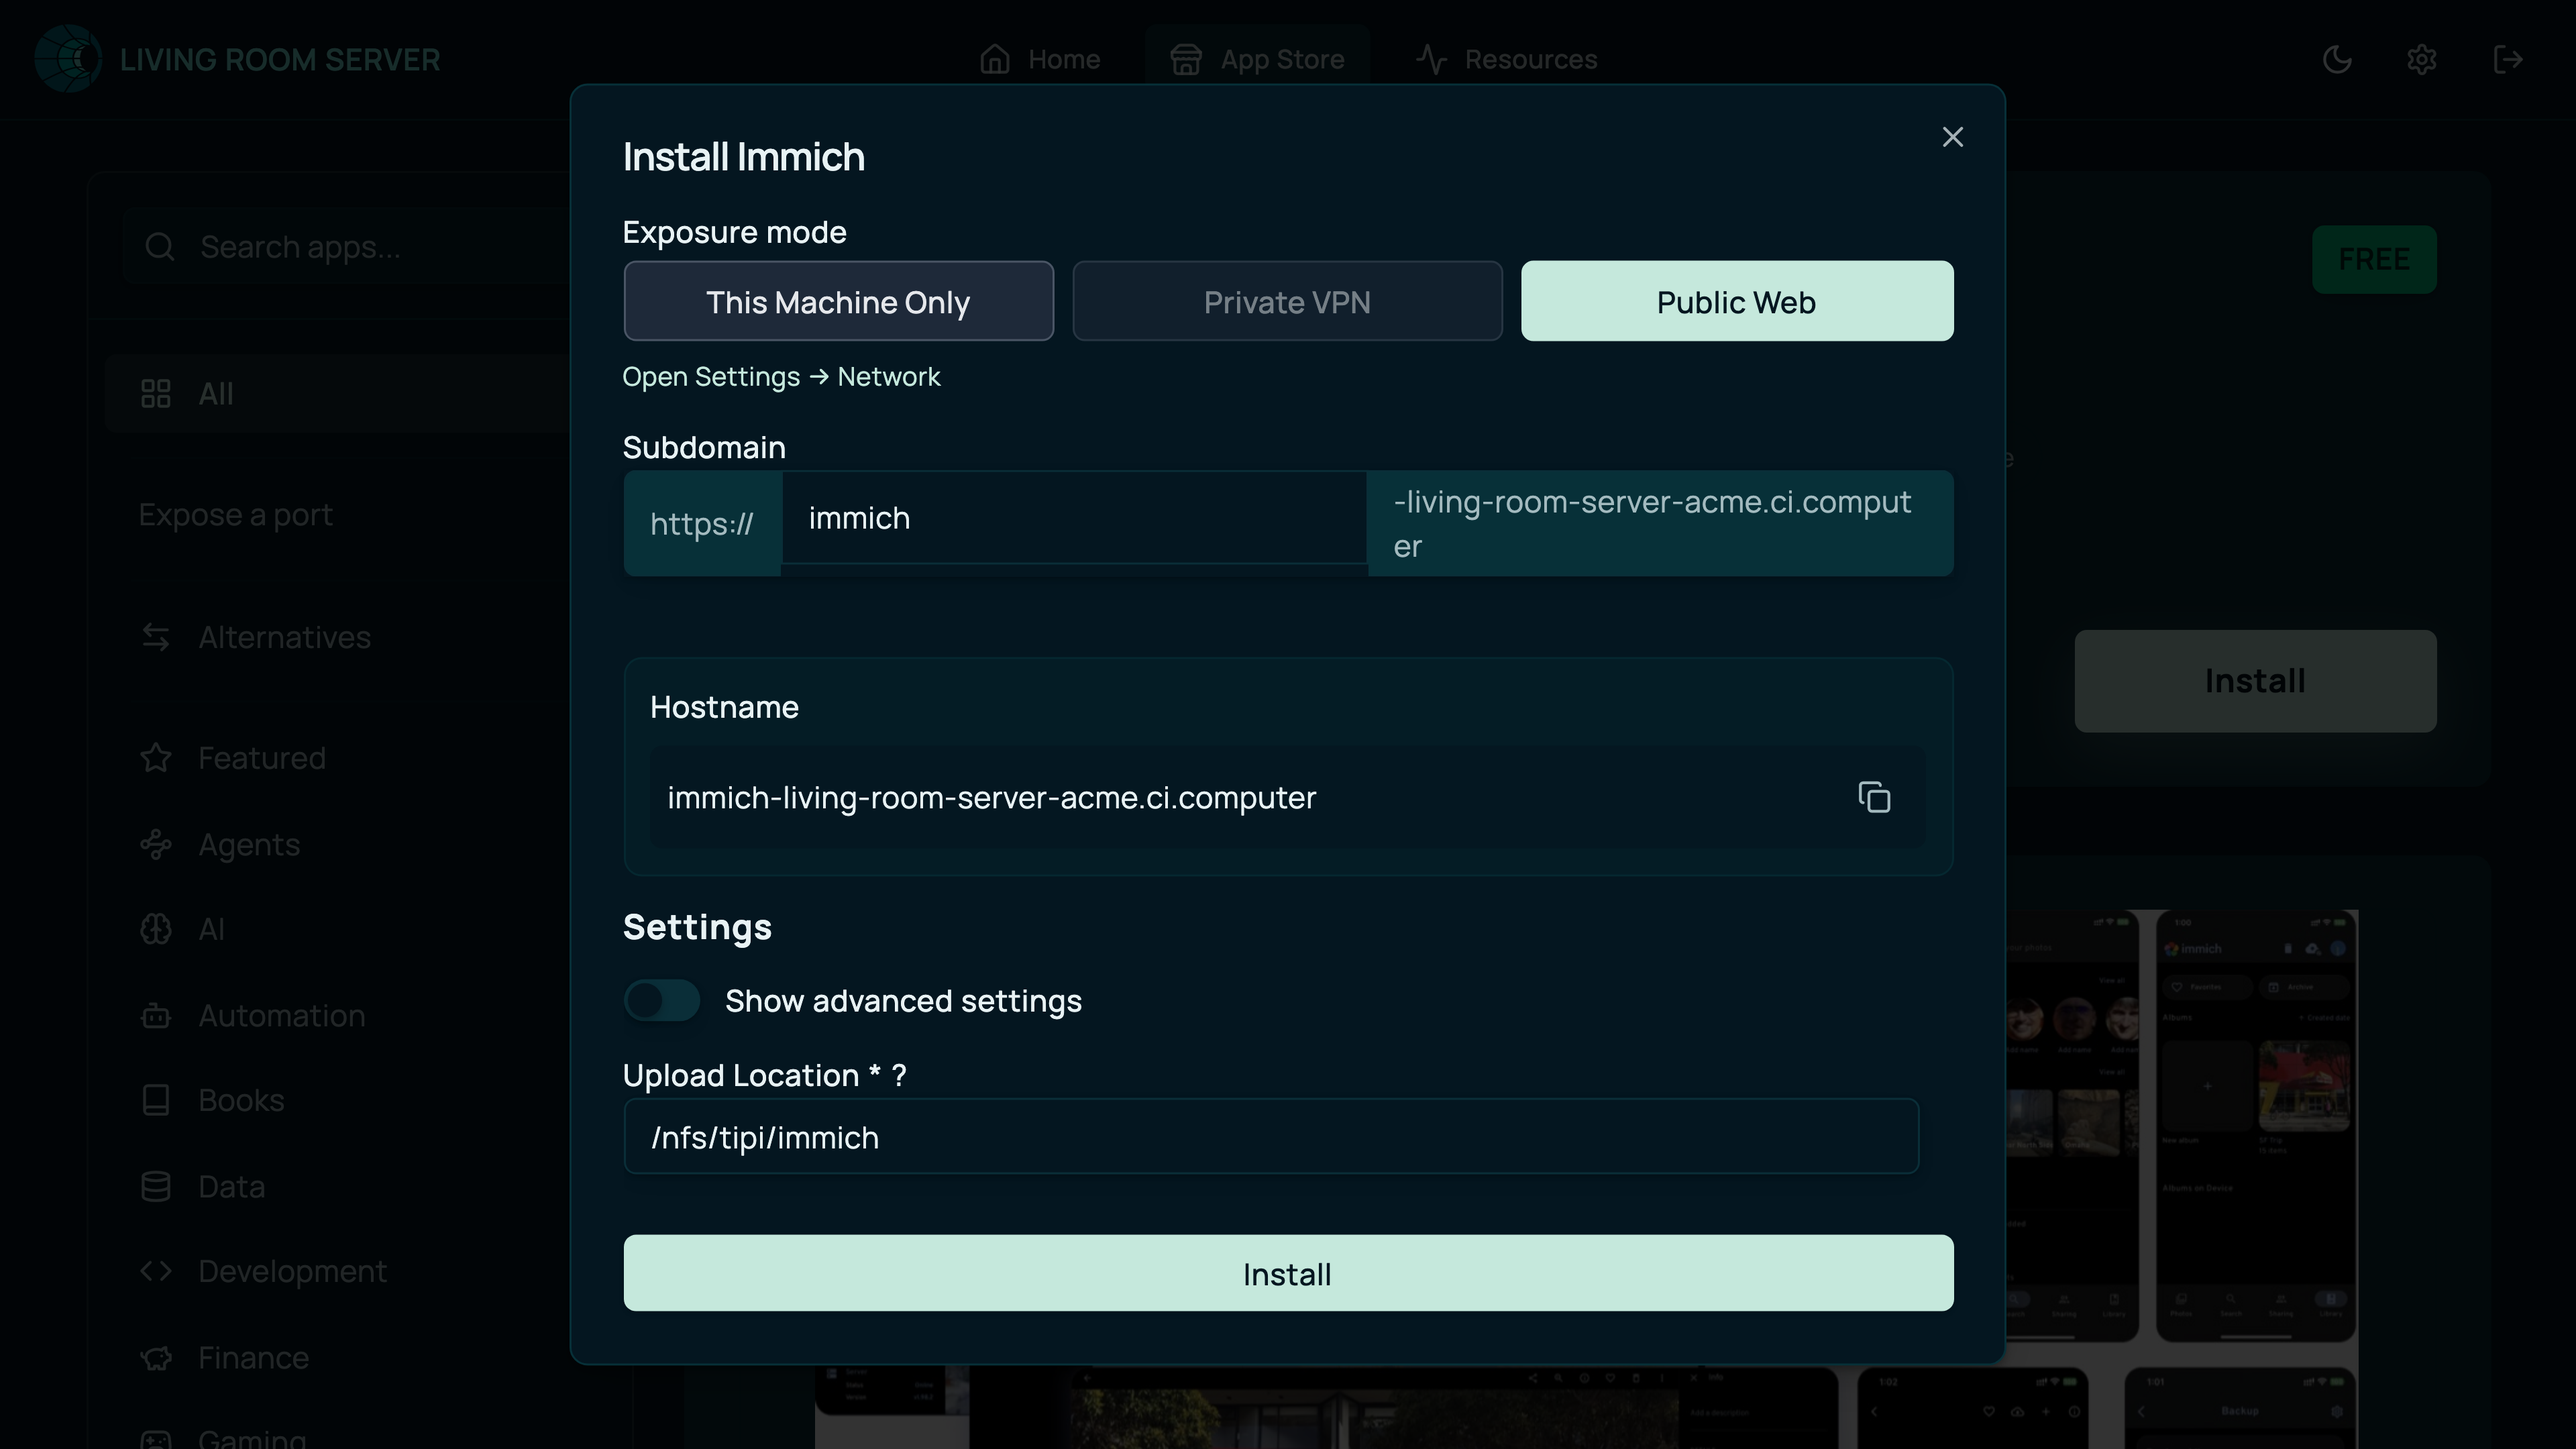
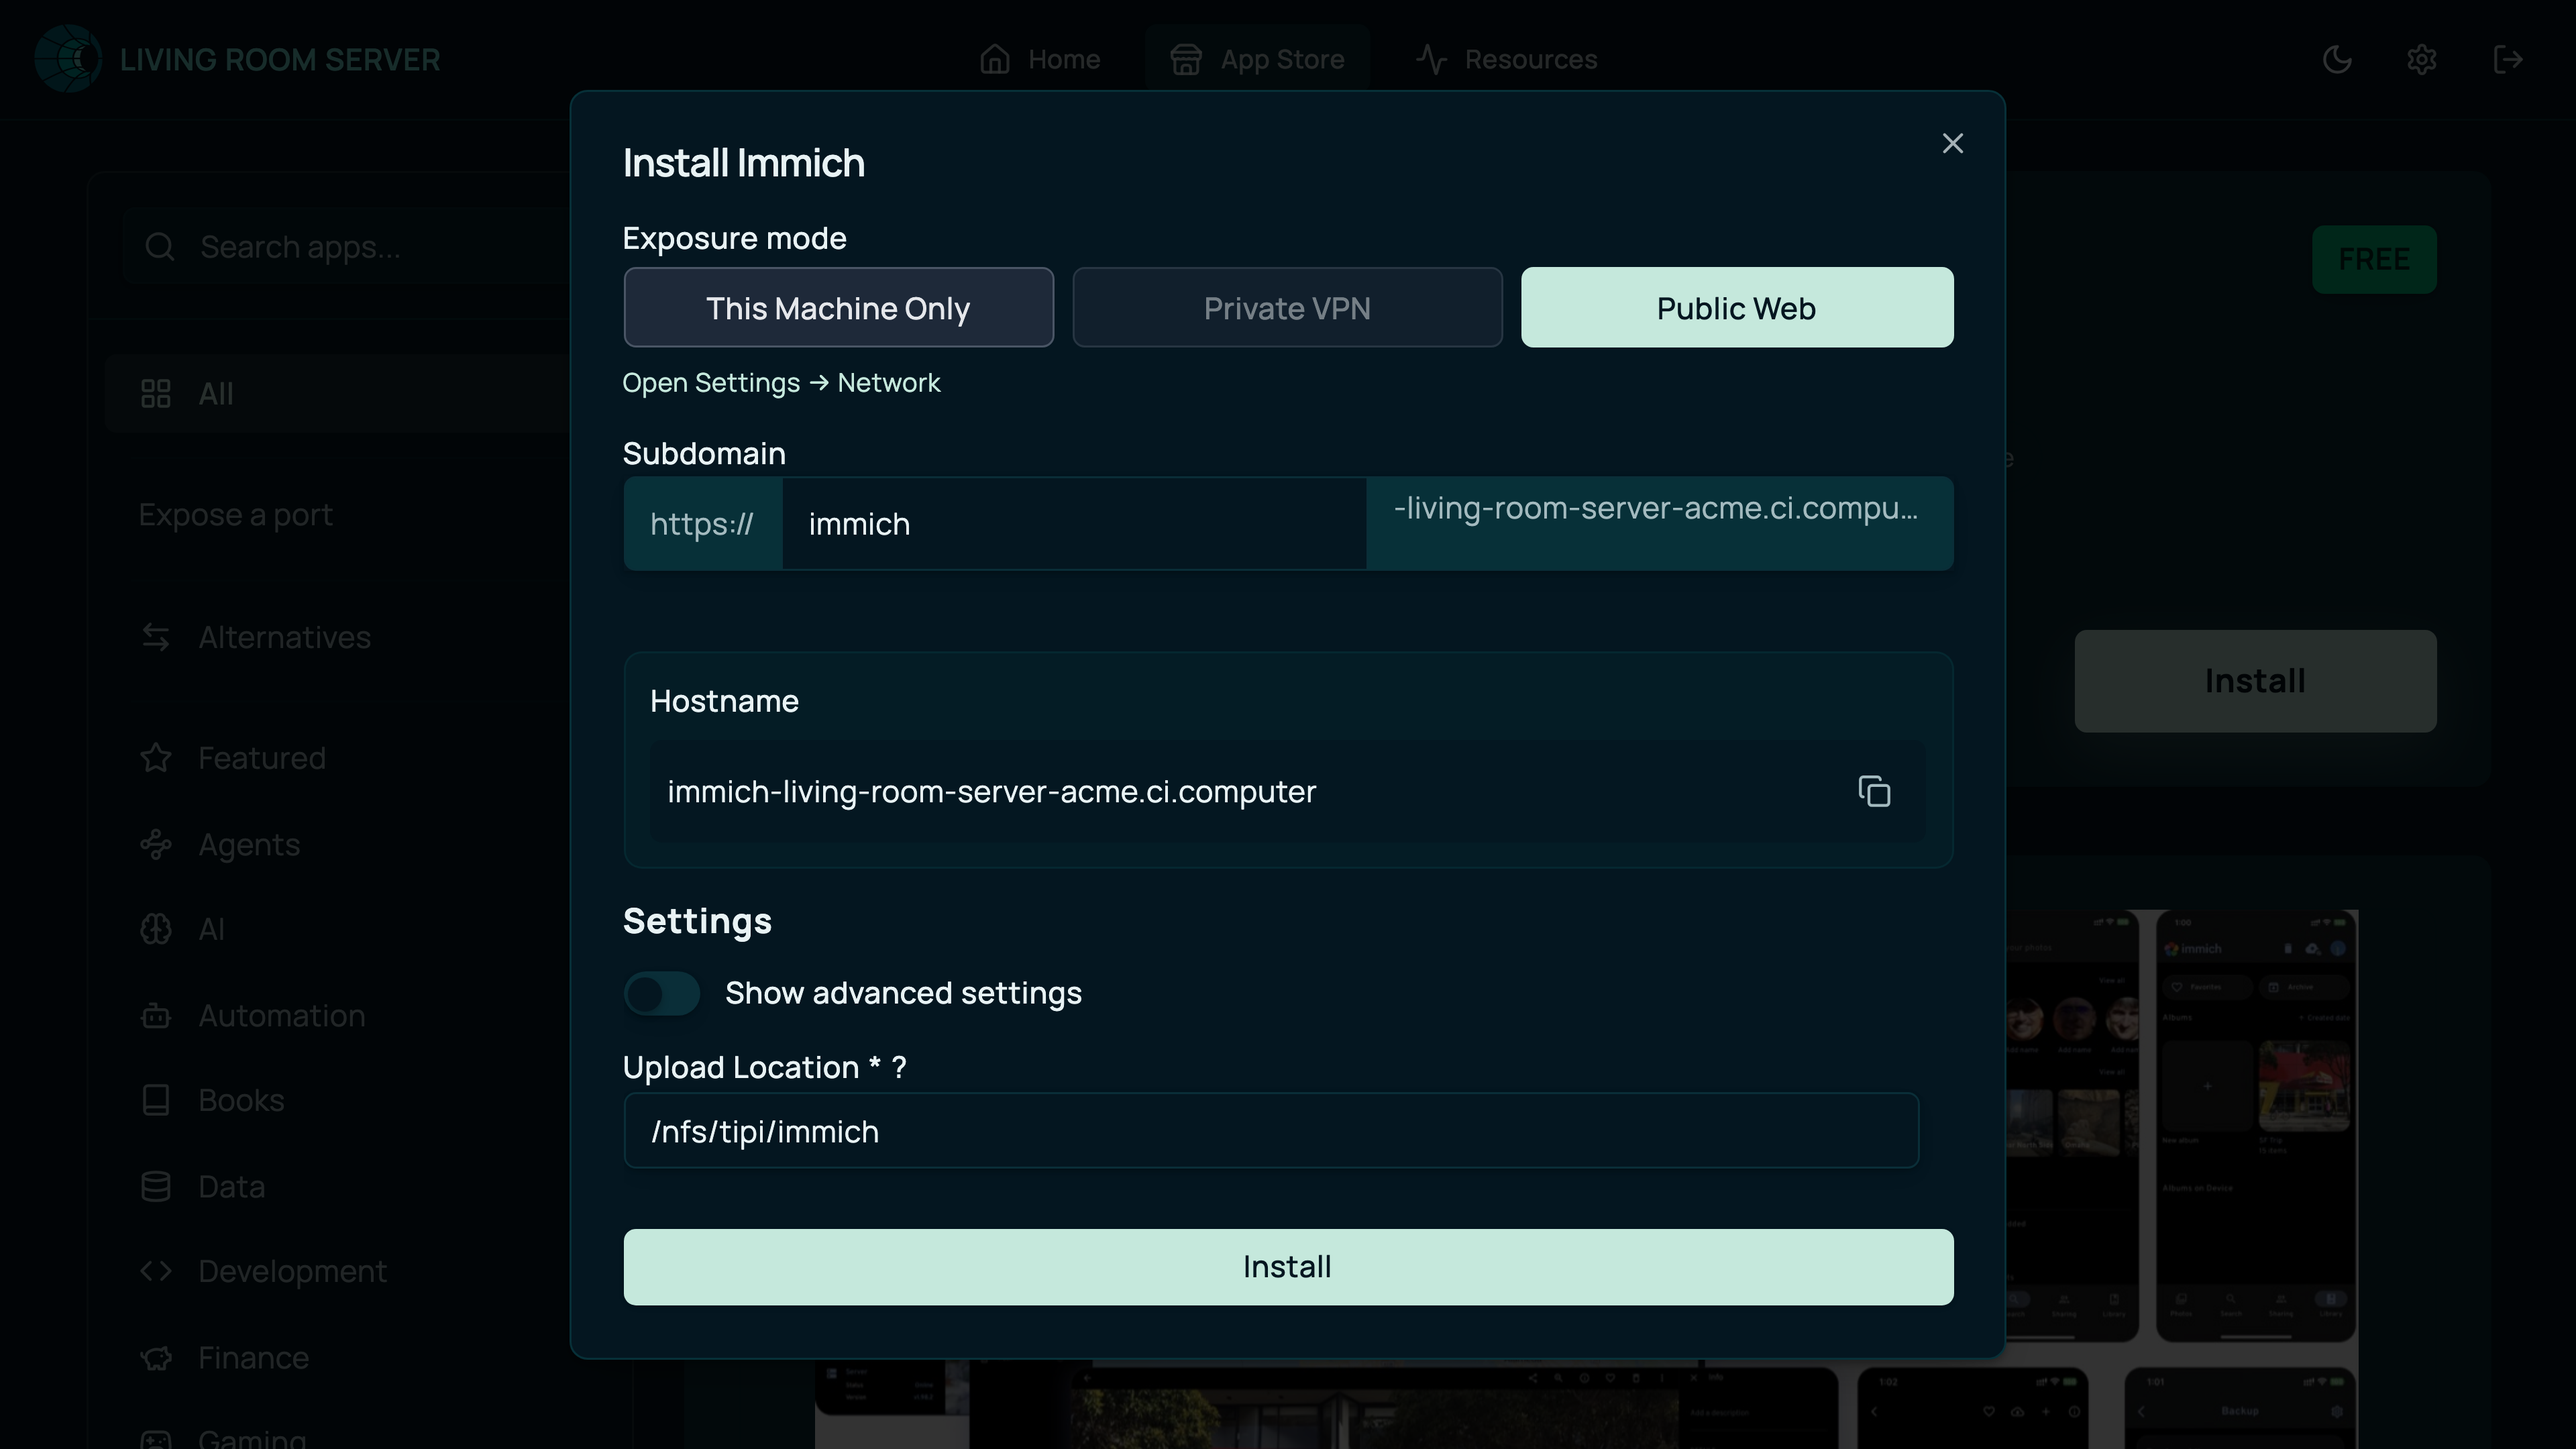
video(hub): capture install-dialog at 9:16, and correct the /apps/create diagnosis
Closes the portrait half of `configure-install`, which #1065 unblocked but did
not re-shoot. Companion Hub goes 25/30 -> 26/30 shots.

- `install-dialog.mobile.png` (new, 1080x1920). The dialog now sits inside the
  375px viewport with gutters, all three exposure modes render in full, and the
  subdomain suffix truncates on one line instead of overflowing the screen.
- `install-dialog.png` re-shot in the same pass: #1065 also fixed the domain
  suffix that used to wrap its last two characters ("er") onto a second line,
  outgrowing the h-11 input. Verified as a before/after crop, not assumed.

`hub-home` was re-captured in this pass to establish the login session and came
back BYTE-IDENTICAL to the committed frame, which is the intended proof that the
capture stage and the pinned Playwright build still match the committed shots.

Not captured, deliberately — both are product bugs, and masking either one in
video/ would ship a false frame:

- `custom-app-create` — /apps/create is STILL dead on dev. #1065 fixed one
  `.omit()`-on-a-refined-schema call site and left json-compose-editor.tsx:11,
  which runs at module scope in the same chunk. Empty <body>, ~144 main-frame
  navigations in 9s. README now names the line and the two latent call sites.
- `running-app` — a DB-seeded app renders an amber "Initializing" pill, not the
  green badge the caption promises, and the storyboard's own target path
  (/apps/ci-marketplace/immich) has no status pill at all because Immich is
[…]

diff --git a/video/README.md b/video/README.md
@@ -15,16 +15,21 @@ What is *meant* to be committed is the input — the screenshots under `assets/s
 exist they let anyone render a cut without booting the whole stage, and a moved UI shows up as a
 reviewable image diff.
 
-> ⚠ **25 of 30 shots are captured and committed; 5 render as slates.**
-> `install-and-run` and `bring-your-own-app` have no shot in either viewport, and
-> `configure-install` has none in portrait. Each has a named cause — see
-> [Shots that cannot be filmed yet](#shots-that-cannot-be-filmed-yet). Two of the three are
-> product bugs, not stage problems. Do not "fix" them by seeding a greener status.
+> ⚠ **26 of 30 shots are captured and committed; 4 render as slates.**
+> `install-and-run` and `bring-your-own-app` have no shot in either viewport. Both have a named
+> cause — see [Shots that cannot be filmed yet](#shots-that-cannot-be-filmed-yet). **Both are
+> product bugs, not stage problems.** Do not "fix" them by seeding a greener status or by
+> pointing a shot at a screen that happens to render.
 >
-> **Two of those three blockers are now fixed in the product** (#1065: the Zod 4 `.omit()` crash on
-> `/apps/create`, and the Install dialog's mobile width). Their shots are unblocked and simply have
-> not been re-shot yet — the table below says which is which. `install-and-run` is still genuinely
-> unfilmable.
+> `configure-install` is **no longer** on that list: #1065 fixed the Install dialog's mobile
+> width, and `install-dialog.mobile.png` is captured and committed. The landscape frame was
+> re-shot in the same pass because #1065 also fixed the domain suffix that used to wrap its
+> last two characters onto a second line.
+>
+> ⚠ **`/apps/create` is still dead on `dev`, and #1065 did not fully fix it.** #1065 corrected
+> one `.omit()`-on-a-refined-schema call site; two more survive, and one of them still crashes
+> the route at module evaluation. See the table below for the exact line. `custom-app-create`
+> stays a slate until that is fixed in the product.
 
 The runner lives in the **CI-Engineering checkout** beside this one:
 
@@ -77,12 +82,19 @@ Ports below are the video stage's own (`9191`+) so a capture never collides with
 an E2E run already using the defaults. From the **repo root**:
 
 ```bash
-export SERVER_IP=localhost FRONTEND_PORT=9191 BACKEND_PORT=9192 API_PORT=9192 \
+export NODE_ENV=development E2E_TEST=true TZ=UTC \
+       SERVER_IP=localhost FRONTEND_PORT=9191 BACKEND_PORT=9192 API_PORT=9192 \
        MOCK_PORTAL_PORT=9193 CI_CLOUD_URL=http://localhost:9193 \
-       POSTGRES_PORT=9194 POSTGRES_USERNAME=companion POSTGRES_PASSWORD=postgres \
-       POSTGRES_DBNAME=companiondb RABBITMQ_PORT=9195 RABBITMQ_USERNAME=companion \
-       RABBITMQ_PASSWORD=admin JWT_SECRET=e2e-test-secret E2E_TEST=true TZ=UTC \
-       DEVICE_ID=test-device-e2e CI_HUB_DATA_DIR=/tmp/ci-hub-video \
+       POSTGRES_HOST=localhost POSTGRES_PORT=9194 POSTGRES_USERNAME=companion \
+       POSTGRES_PASSWORD=postgres POSTGRES_DBNAME=companiondb \
+       RABBITMQ_HOST=localhost RABBITMQ_PORT=9195 RABBITMQ_USERNAME=companion \
+       RABBITMQ_PASSWORD=admin JWT_SECRET=e2e-test-secret \
+       DEVICE_ID=test-device-e2e \
+       CI_HUB_DATA_DIR=/tmp/ci-hub-video \
+       CI_HUB_APP_DATA_DIR=/tmp/ci-hub-video/app-data \
+       CI_HUB_APP_DATA_PATH=/tmp/ci-hub-video \
+       CI_HUB_TUNNEL_DIR=/tmp/ci-hub-video/tunnel \
+       ROOT_FOLDER_HOST=/tmp/ci-hub-video CI_HUB_APP_DIR="$PWD" \
        CI_HUB_FORWARD_AUTH_URL=http://localhost:9192/api/auth/traefik \
        CI_MARKETPLACE_DIR="$PWD/../CI-Marketplace" \
        MOCK_PORTAL_OPERATOR_EMAIL=owner@acme.com MOCK_PORTAL_OPERATOR_PASSWORD=password
@@ -94,13 +106,52 @@ docker run -d --name hub-video-mq -p 9195:5672 -e RABBITMQ_DEFAULT_USER=companio
 
 MOCK_PORTAL_SCENARIO=registered pnpm exec tsx e2e/mock-portal/server.ts &
 bash e2e/start-backend.sh &
+
+# Build @ci-hub/common BEFORE the frontend, and do not race them — see the warning below.
+pnpm run --filter @ci-hub/common build
 pnpm run --filter frontend build && pnpm run --filter frontend preview &
+```
+
+**Those first two lines are not optional, and neither is the ordering below them.**
+
+`NODE_ENV` and the four `CI_HUB_*` path vars must be in the **process environment**, not only in
+the `$CI_HUB_DATA_DIR/.env` that `start-backend.sh` writes. `packages/backend/src/common/constants.ts`
+reads `process.env` at *module load*, before that file is parsed:
+
+```ts
+export const APP_DATA_DIR = process.env.CI_HUB_APP_DATA_DIR || '/app-data';   // constants.ts:37
+```
+
+Omit them and the backend dies on `ENOENT: no such file or directory, mkdir '/app-data'`. Omit
+`NODE_ENV=development` and `DatabaseService.getMigrationsPath()` skips its dev branch and looks in
+`$CI_HUB_APP_DIR/assets/migrations`, which does not exist in a source checkout — the backend dies on
+`Can't find meta/_journal.json file`. `playwright.config.ts` → `backendEnv` passes all of this
+explicitly (`NODE_ENV: 'development'` at line 20); this block is the hand-run equivalent and must
+stay in step with it.
+
+```bash
 
 pnpm exec tsx video/stage/seed.mts        # org, operator, installed-app rows, MCP keys
 
 cd video && APP_URL=http://localhost:9191 npm run capture -- \
   --only login-screen,hub-home,hub-store,store-alternatives,app-details,install-dialog,\
 port-expose,ai-hardware,mcp-tools,hub-settings,hub-settings-security
+```
+
+**Never let the frontend build race `start-backend.sh`.** That script builds `@ci-hub/common`
+partway through its own run. Backgrounding it and building the frontend at the same time — the
+obvious way to read the block above — compiles the frontend against **whatever `packages/common/dist`
+happened to be on disk at that moment**, which in a fresh worktree is the previous commit's. The
+capture then films a bundle that is not the tree you checked out, and nothing anywhere reports it:
+the shots look plausible, `capture` exits 0, and `check` passes.
+
+This cost a full diagnostic detour on the pass that added `install-dialog.mobile.png`: `/apps/create`
+threw the *exact* Zod error #1065 had already fixed, from a bundle seven minutes older than the
+`@ci-hub/common` build. Compare mtimes before believing any frame:
+
+```bash
+stat -f "%Sm %N" -t "%F %T" packages/common/dist/schemas/dynamic-compose.js \
+                            packages/frontend/dist/client/index.html   # frontend MUST be newer
 ```
 
 `MOCK_PORTAL_OPERATOR_EMAIL` is not optional. Hub login is **Portal-backed** —
@@ -145,8 +196,7 @@ film its *store* page, and the header swaps Install for Open the moment it is in
 | Shot | Scene | Why it is a slate |
 |---|---|---|
 | `running-app` | `install-and-run` | The caption promises a green badge. A DB-seeded `running` app cannot produce one: `getAppStatusPresentation` downgrades it to an amber, animated **Initializing** whenever runtime health reports zero containers. A genuine install is not available either — `installApp` → `ReposHelpers.downloadAppFiles` pulls the bundle from the **Portal** (`/api/store/:id/install`, device-authenticated), and the mock portal answers 404 (`Failed to fetch app files`). Needs a pass with a real Portal install bundle and a real container. |
-| `install-dialog` (portrait only) | `configure-install` | **FIXED IN #1065 — re-shoot pending.** The Install dialog did not fit a phone — at 375 px it rendered wider than the screen, the third exposure mode reading `Pub` and the subdomain suffix and generated hostname both cut mid-word. The landscape frame is captured and good; the portrait one was thrown away rather than shipped as a screenshot of an overflowing dialog. `DialogContent` now carries `max-w-[calc(100vw-2rem)]` + `[&>*]:min-w-0` and the domain suffix truncates on one line, so `capture --only install-dialog` at both viewports is the only remaining step. |
-| `custom-app-create` | `bring-your-own-app` | **FIXED IN #1065 — re-shoot pending.** `/apps/create` was broken on `dev`, in the product: `multi-service-form.tsx:26` called `dynamicComposeSchema.omit({ schemaVersion: true })`, but that schema ends in `.superRefine(...)`, so Zod threw `.omit() cannot be used on object schemas containing refinements` at module evaluation. React Router treated the failed route module as a load error and reloaded forever: blank body, infinite navigation loop. The form now compiles from an unrefined `dynamicComposeFormSchema`, so all five `/apps/create` shots are capturable — nothing about the stage was ever wrong. |
+| `custom-app-create` | `bring-your-own-app` | **STILL BROKEN ON `dev`. #1065 fixed one call site of three; the route still crashes.** `.omit()` on a schema carrying refinements throws in Zod 4, and `dynamicComposeSchema` ends in `.superRefine(...)`. #1065 fixed `multi-service-form.tsx` (now built from the unrefined `dynamicComposeFormSchema`) but left **`components/multi-service-form/json-compose-editor.tsx:11`** — `toJsonSchema(dynamicComposeSchema.omit({ schemaVersion: true }))` — at **module scope**. `multi-service-form.tsx:8` imports that module statically, so it is evaluated as soon as the `/apps/create` chunk loads and throws `.omit() cannot be used on object schemas containing refinements`. React Router treats the failed route module as a load error and reloads forever: **empty `<body>`, ~144 main-frame navigations in 9 s**. Two further call sites are latent (they throw on use, not on load): `stores/multiServiceStore.ts:64` (`validate`) and `modules/app/pages/custom-app-edit-page.tsx:50` (the *edit* page). Nothing about the stage is wrong — verify with `pnpm exec tsx` that the common schema module itself imports fine. Fix in the product, then `capture --only custom-app-create`. |
 
 ## Three capture passes
 
